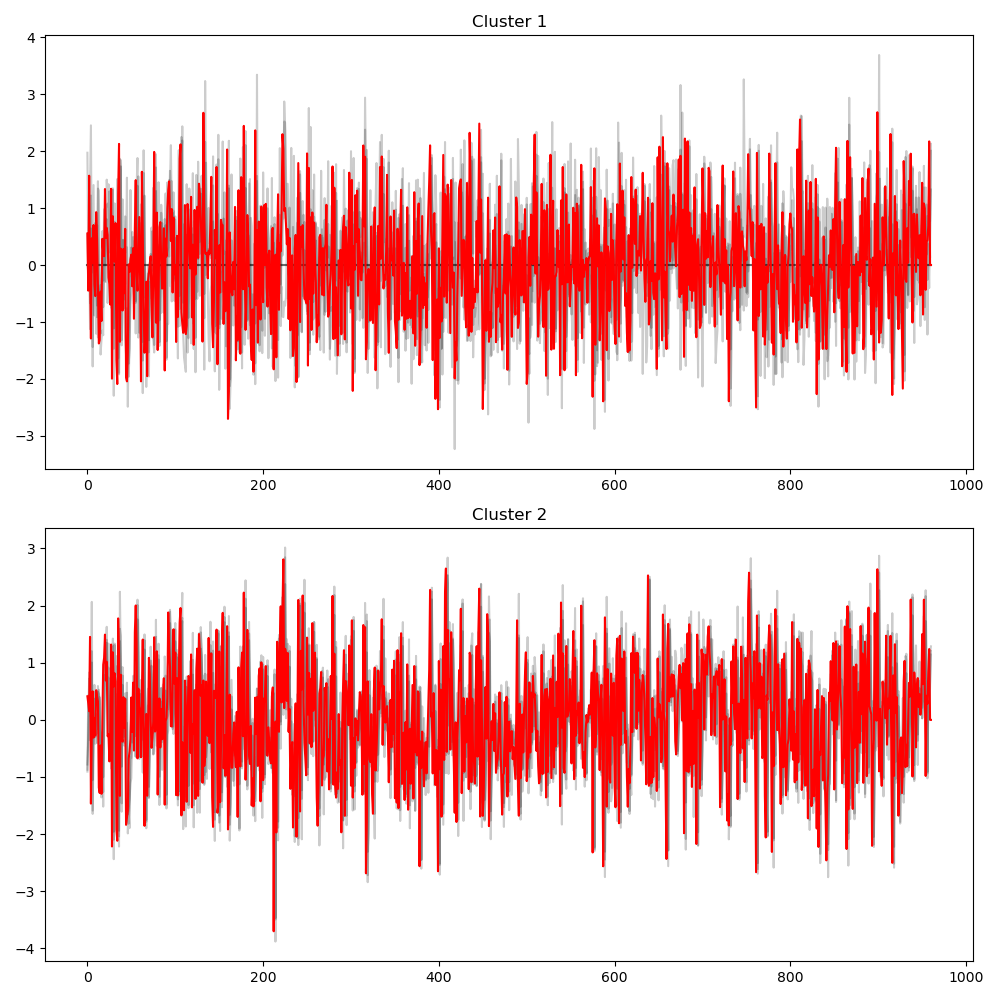
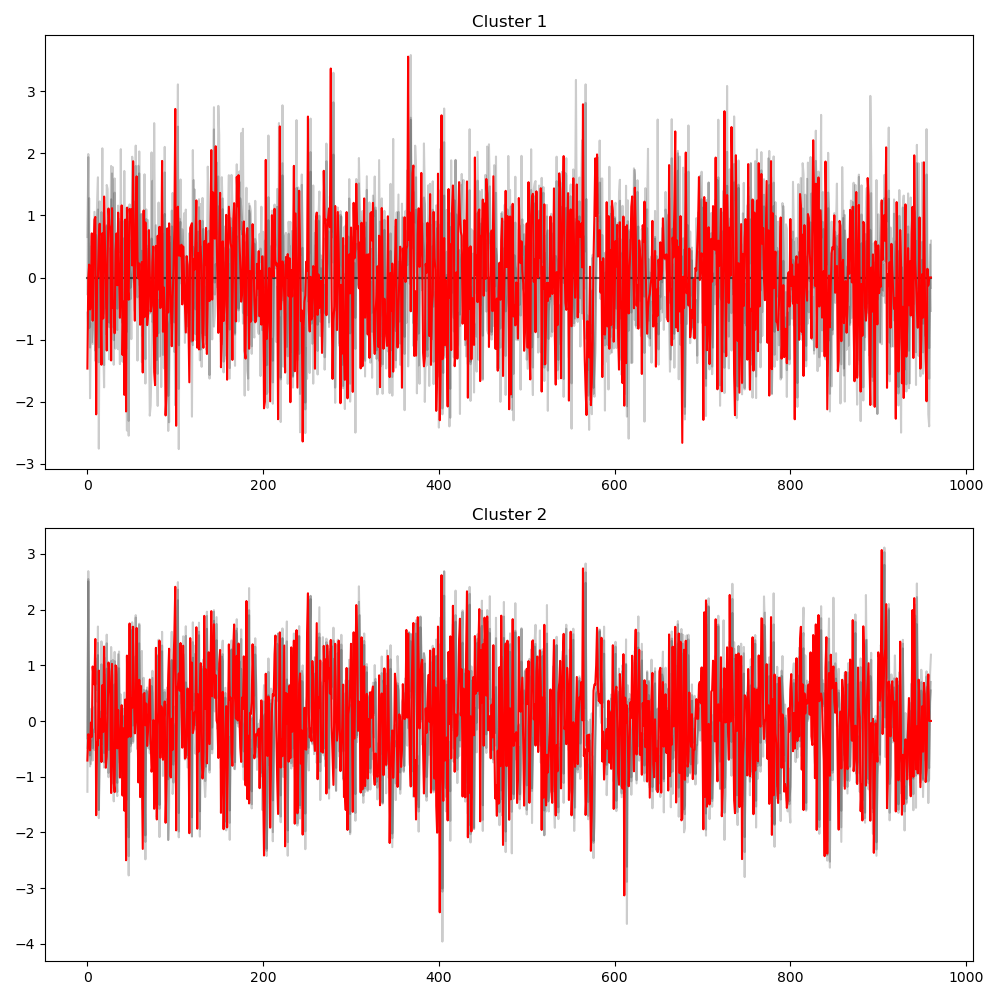
Add metrics selection module

Changed region(s): [[0.062, 0.062, 0.93, 0.434], [0.062, 0.558, 0.93, 0.93]]

diff --git a/12-metrics-selection-module/kshape.py b/12-metrics-selection-module/kshape.py
@@ -1,5 +1,6 @@
 # pip install tslearn  
 import matplotlib.pyplot as plt
+import numpy as np
 from tslearn.clustering import KShape  
 from tslearn.preprocessing import TimeSeriesScalerMeanVariance  
 
@@ -13,27 +14,37 @@ def cluster_cpu_metrics(metrics_list, metrics_data):
     
     # Prepare data for KShape clustering  
     timeseries_data = []  
+    original_timeseries_data = []  # to store original data
     for metric, data in cpu_metrics_data.items():  
         if data['data']['result']:  
             values = [float(x[1]) for x in data['data']['result'][0]['values']]  
+            original_timeseries_data.append(values)  # store original data 
             timeseries_data.append(values)  
     
     # Rescale the time series data to have zero mean and unit variance  
     timeseries_data = TimeSeriesScalerMeanVariance().fit_transform(timeseries_data)  
     
     # Apply KShape clustering  
-    n_clusters = 2  # number of clusters  
-    ks = KShape(n_clusters=n_clusters, n_init=10, verbose=True)  
+    n_clusters = 1  # number of clusters  
+    ks = KShape(n_clusters=n_clusters, n_init=30, verbose=True)  
     y_pred = ks.fit_predict(timeseries_data)  
     
     # Plot the clustered time series data  
-    fig, axs = plt.subplots(n_clusters, 1, figsize=(10, n_clusters * 5))  
+    fig, axs = plt.subplots(n_clusters, 2, figsize=(10, n_clusters * 5))  
+    # If there's only one row of subplots, convert axs to a 2D array  
+    if n_clusters == 1:  
+        axs = np.array([axs]).reshape(1, -1)
     for yi in range(n_clusters):  
         for xx in timeseries_data[y_pred == yi]:  
             axs[yi].plot(xx.ravel(), "k-", alpha=.2)  
-        axs[yi].plot(ks.cluster_centers_[yi].ravel(), "r-")  
-        axs[yi].set_title("Cluster %d" % (yi + 1))  
+
+        for xx in original_timeseries_data:  # plot original data in second column  
+            axs[yi][1].plot(xx, "k-", alpha=.2)  # plot original data  
+
+        axs[yi][0].plot(ks.cluster_centers_[yi].ravel(), "r-")  
+        axs[yi][0].set_title("Cluster %d" % (yi + 1))  
+        axs[yi][1].set_title("Original %d" % (yi + 1)) 
     
     plt.tight_layout()  
     plt.savefig('clustered_cpu_metrics.png')  
-    plt.show()  
+    # plt.show()  
